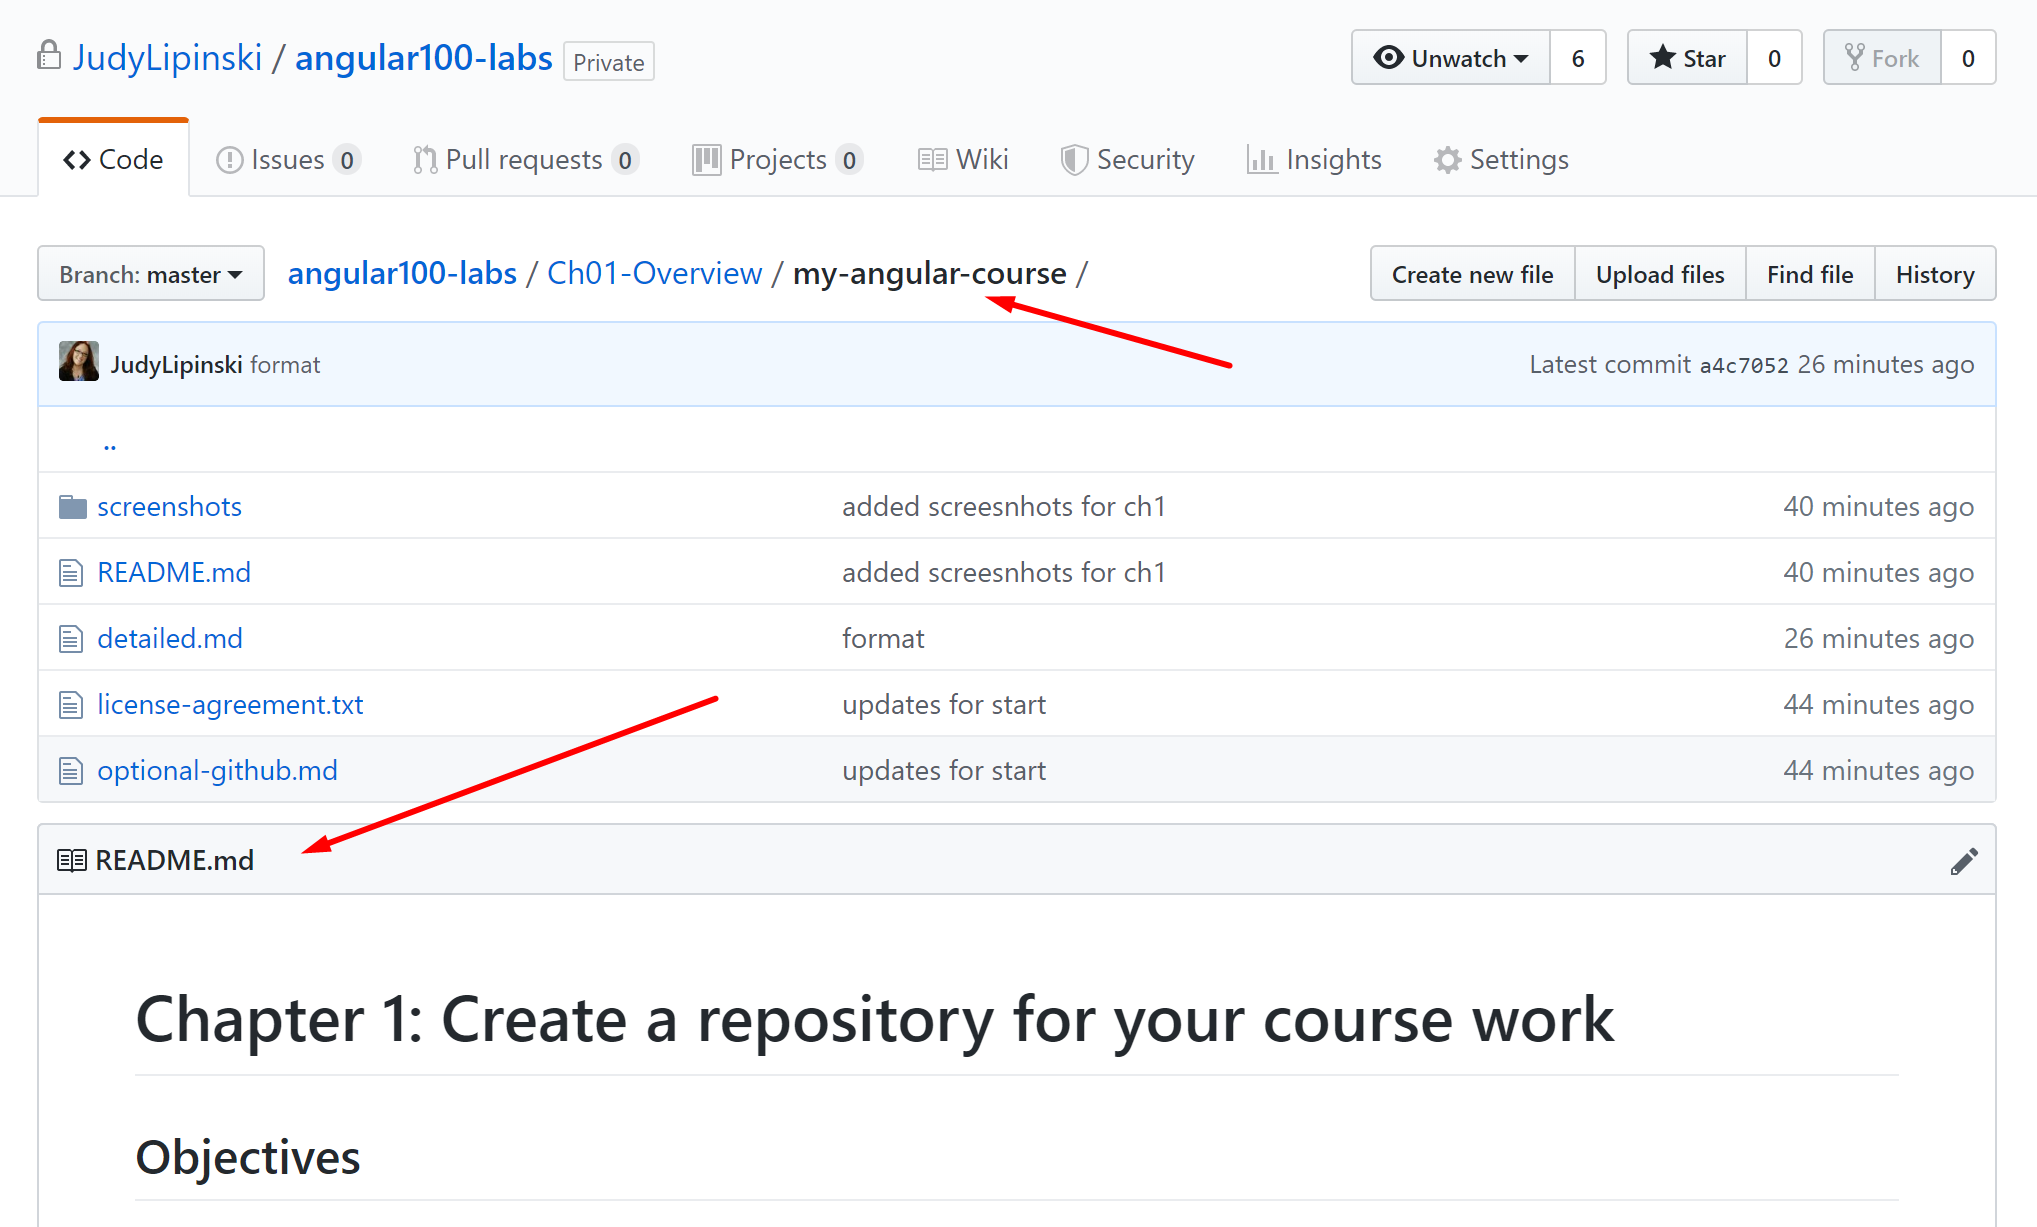
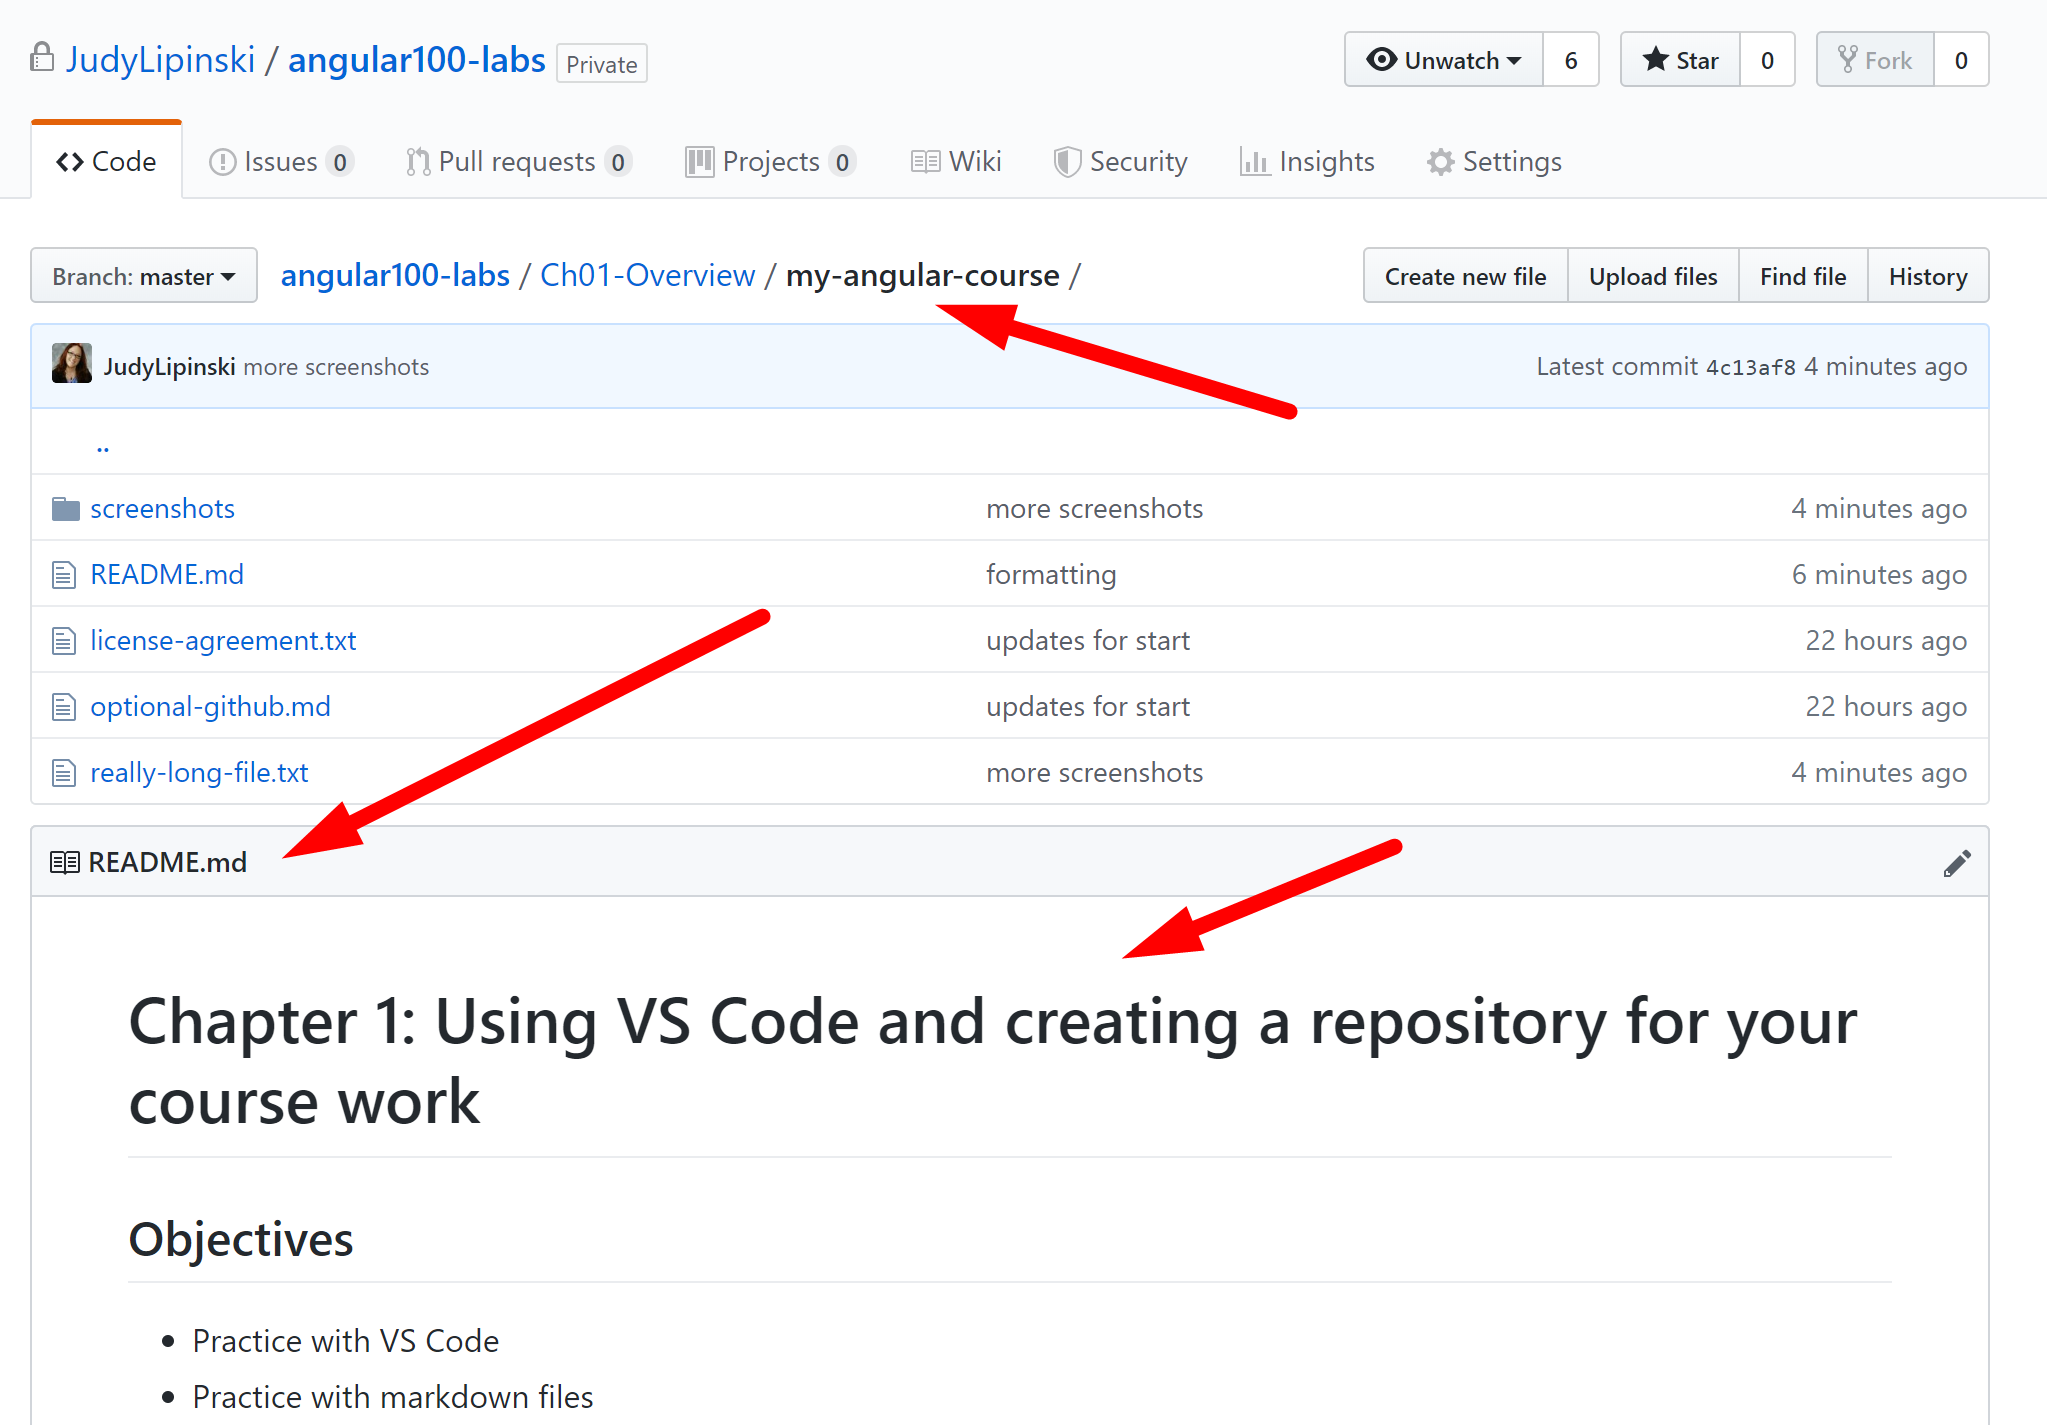
ch order more ss

diff --git a/Ch01-Overview/my-angular-course/README.md b/Ch01-Overview/my-angular-course/README.md
@@ -17,13 +17,14 @@
 
 ## Links to content below
 
-[Part 1 - Opening files in VS Code and changing default settings](#part-1---opening-files-in-vs-code-and-changing-default-settings)
+[Part 1 - Navigating the course on Github](#part-1---navigating-the-course-on-github)
 
-[Part 2 - Markdown .md files in Edit & Preview Mode](#part-2---opening-markdown-md-files-in-edit--preview-mode)
 
-[Part 3 - The Angular100-Labs project](#part-3---the-angular100-labs-project)
+[Part 2 - Opening files in VS Code and changing default settings](#part-2---opening-files-in-vs-code-and-changing-default-settings)
 
-[Part 4 - More on Install VS Code extensions](#part-4-install-vs-code-extensions)
+[Part 3 - Markdown .md files in Edit & Preview Mode](#part-3---opening-markdown-md-files-in-edit--preview-mode)
+
+[Part 4 - The Angular100-Labs project](#part-4---the-angular100-labs-project)
 
 [Part 5 - Create Your Own Local Git Repo](#part-5-create-your-own-repository-for-your-coursework)
 
@@ -33,14 +34,15 @@
 
 [Part 8 - Use .gitignore to not track changes](#part-8---using-gitignore-to-ignore-changes)
 
-[Part 9 - Optionally create GitHub remote repo](#part-9-optional--setup-github-remote-repository)
-
 [Part 10 - View GitLens extension](#part-10---view-gitlens)
+
+[Part 11 - Optionally create GitHub remote repo](#part-11-optional--setup-github-remote-repository)
+
 
 [Bonus - Explore VS Code](#bonus)
 
    
-### Part 1 - Navigating the course on Github
+### **Part 1 - Navigating the course on Github**
 
 1. Throughout the course you can use the browser to navigate to the course Git repository Angular100-Labs (specific for your class). https://github.com/JudyLipinski/angular100-labs
 
@@ -56,7 +58,43 @@
    ![Bookmark bar in chrome](screenshots/1-bookmarks-bar.png)
 
 
-### **Part 1 - Opening files in VS Code and changing default settings**
+### **Part 2 - Opening files in VS Code and changing default settings**  
+[back to top](#links-to-content-below)
+
+
+
+**Install and use VS Code Peacock extension**
+[back to top](#links-to-content-below)
+
+    The extensions pane allows you to search for, install, disable and remove extensions easily.
+
+1. Look on the left side bar menu of VS Code and click on the `Extensions` icon or use the shortcut (Ctrl + Shift + X). 
+
+    ![extensions](screenshots/extensions.png)
+
+
+2. Type into the Extensions Marketplace search field to find `Peacock` by John Papa. If you do not have it already installed click the install button.
+   
+   ![](screenshots/extensions-install-menu.png)
+
+    This extension lets us provide a color to the top and left sidebars of each instance of VS Code we open. 
+    
+    In the real world this is helpful as you may have reference implementation projects open as well as your own work.
+
+    In this course it will be helpful as we will have different VS Code instances for 
+    
+    * Angular100-labs 
+    * Angular100-solutions
+    * Angular100-demos
+    * MyAngularCourse (you will create in next Part) 
+    
+1. To use the extension, hit control+shift+p to bring up the command pallette and start typing Peacock.
+   
+   ![](screenshots/peacock-search.png)
+   
+2. You should see a list of options, choose Vue green to identify the VS Code instance for your labs.
+
+   ![](screenshots/peacock-favorites.png)
 
 
 **OPENING FILES IN VS CODE**
@@ -99,11 +137,13 @@
    
    ![wrap text](screenshots/1-wrap-contents.png)
 
-### **Part 2 - Opening Markdown .md files in Edit & Preview Mode**
+### **Part 3 - Opening Markdown .md files in Edit & Preview Mode**
+[back to top](#links-to-content-below)
+
 
     We use markdown files in this class for lab directions as they are used extensively in the industry with modern web projects.  
     
-    These plain text files end in the extension `.md` and are used to describe Angular projects.
+    These plain text files end in the extension .md and are used to describe Angular projects.
     
     Special characters are used to indicate the meaning of text and how to display it when used on websites.
     
@@ -114,7 +154,7 @@
     We will look at multiple ways to open markdown files in PREVIEW MODE in VS Code. You will use these methods for lab exercises and some demos. 
 
 
-**USING CTRL-SHIFT-V**
+**OPENING PREVIEW USING CTRL-SHIFT-V**
 
 1. If it isnt already, open this README.md in VS Code and make sure that it has focus. (click this text in the VS Code editor if the document has lost focus).
    
@@ -123,7 +163,7 @@
    ![](screenshots/2-control-shift-v.png)
    
 
-   **OPEN SPLIT SCREEN**
+   **OPENING A SPLIT SCREEN**
 
 3. Open a Split screen in order to view both at the same time by clicking on this icon 
     ![Open Split Screen](screenshots/open-split-screen.png)
@@ -155,10 +195,9 @@
     * Every item can be numbered as 1 in Edit Mode. When the markdown file is rendered: in preview mode or in browsers - the numbers will increment correctly.
         * This makes it easy to insert new items or re-order items, without needing to take the time to renumber.
 
-
     **OPEN PREVIEW TO SIDE**
 
-8. Close all tabs so only the README.md is open in Edit Mode.
+8. Close all tabs in VS Code so that only the README.md is open in Edit Mode.
    
 9.  When a markdown file is the active file, there is a button that automatically opens Preview in the split pane.
 ![Preview button](screenshots/preview-button.png)
@@ -175,7 +214,8 @@
 
 2.  For the rest of this lab exercise, view this file in Preview mode or on GitHub. 
 
-### **Part 3 - The Angular100-Labs project**
+### **Part 4 - The Angular100-Labs project**
+[back to top](#links-to-content-below)
 
 1. Make sure you have VS Code open and can see the Angular100-Labs repository. Ensure the Explorer pane is visible, listing the files/directories. Recall to click the icon if the view is hidden. 
 
@@ -184,43 +224,23 @@
 
 
 2. Understanding the Angular100-Labs repository
-    * This repository contains the markdown files which re the instructions for the labs in this course. It is organized by chapter.  
+    * This repository contains the markdown files which are the instructions for the labs in this course. It is organized by chapter.  
     * There is a z-cheatsheets folder which contains help for VS Code, HTML, CSS       
     * Practice Bonus problems are available if you complete the regular exercises before others
 
-1. If you make and save changes to any of these files, the VS Code source control icon (The Y looking icon in the vertical menu strip) will display a number for each file changed. 
+1. There is no reason to make changes to these files. If you do make and save changes to any of these files, the VS Code source control icon (The Y looking icon in the vertical menu strip) will display a number for each file changed. 
+   
+    This prevents you from pulling additional bonus materials that may be added during the course.
 
-    You can always revert to the original files by clicking this source control icon, hovering over the CHANGES menu and discarding all of the changes.
+    You can revert back to the original files by clicking this source control icon, hovering over the CHANGES menu and discarding all of the changes.
 
     ![](screenshots/discard-changes-ng.png)
 
 
-### **Part 3: Install VS Code extensions**
 
-    The extensions pane allows you to search for, install, disable and remove extensions easily.
-
-1. Look on the left side bar menu of VS Code and click on the `Extensions` icon or use the shortcut (Ctrl + Shift + X). 
-
-    ![extensions](screenshots/extensions.png)
-
-
-2. Type into the Extensions Marketplace search field to find `Peacock` by John Papa. If you do not have it already installed click the install button.
-   
-   ![](screenshots/extensions-install-menu.png)
-
-    This extension lets us provide a color to the top and left sidebars of each instance of VS Code we open. 
-    
-    In the real world this is helpful as you may have reference implementation projects open as well as your own work.
-
-    In this course it will be helpful as we will have different VS Code instances for 
-    
-    * Angular100-labs repo
-    * Angular100-solutions
-    * Angular100-demos
-    * MyAngularCourse (you will create in next Part) 
-    
 
 ### **Part 5: Create your own repository for your coursework**
+[back to top](#links-to-content-below)
 
 You will create a repository called my-angular-albums. It will be tracked by Git so that if you accidentally delete or change files you can recover them easily. 
 
@@ -249,6 +269,7 @@ Sometimes, you may accidentally run a command and modify a lot of files you did 
 ![GitInit](screenshots/git-init.png)
 
 ### **Part 6 - Opening Multiple Instances of VS Code**
+[back to top](#links-to-content-below)
 
     Quite often you will need to have multiple instances of VS Code open. For example, you may be referring to a sample project and comparing to your own project. In this class, you may wish to have open the Labs and your project.
 
@@ -272,6 +293,7 @@ Sometimes, you may accidentally run a command and modify a lot of files you did 
    Here you can see more than one instance open. You can use the windows status bar to switch between projects by clicking the icon and choosing the one you want. If you are not using a virtual machine you can use Alt+tab to switch.
 
 ### **Part 7 - Using VS Code to Commit Changes**
+[back to top](#links-to-content-below)
 
     By copying a file into your project, you might have noticed the source control icon now has a number on it. Here we will practice with change tracking in projects.
    
@@ -292,6 +314,7 @@ Sometimes, you may accidentally run a command and modify a lot of files you did 
 7.  Click the check mark above the text message field to commit the changes made to README.md
 
 ### **Part 8 - Using .gitignore to ignore Changes**
+[back to top](#links-to-content-below)
 
     Sometimes, you do not want Git to track certain files or directories. Git looks for a settings file called `.gitignore`. Any files or directories included in this file will not be tracked.
     
@@ -310,22 +333,27 @@ Sometimes, you may accidentally run a command and modify a lot of files you did 
 
 1.  Please mark your work as complete. With your name tent card if in a classroom or by using method for online training. (spreadsheet, status symbol, etc.) Then you can move on to the OPTIONAL part or Bonus below.
 
-### **Part 9 OPTIONAL- Setup GitHub remote repository**
-
-1. If you have access to GitHub you can follow the directions in this folder's file [optional-github.md](./optional-github.md)  file. If others are done with this exercise already you can return to do this on a break or at a later time. It can be completed at any time before the end of class. 
 
 ### **Part 10 - View GitLens** 
+[back to top](#links-to-content-below)
+
 1.  On VS Code's left hand toolbar, click on the `GitLens` extension you installed earlier. This extension contains additional features.
 
     ![](screenshots/gitlens.png)
 
 1.  Familiarize yourself with `GitLens'` panel. Notice how you can use it to access different repositories and their branches, remote, your stashes, etc. Also notice how you can navigate through it to see history of a file, a line, or compare files between different branches or between local and remote.
 
+### **Part 11 OPTIONAL- Setup GitHub remote repository**
+[back to top](#links-to-content-below)
+
+1. If you have access to GitHub you can follow the directions in this folder's file [optional-github.md](./optional-github.md)  file. If others are done with this exercise already you can return to do this on a break or at a later time. It can be completed at any time before the end of class. 
 
 
 
 ## Bonus
+[back to top](#links-to-content-below)
 
-1. If done before others, check out the VS Code Interactive Playground
-2. 
-You will be using this directory inthe next chapter to create an Angular project from scratch. If you wish to continue, the steps that follow will help you to setup a GitHub repository and link it to this local directory. You will need a valid GitHub account that you can login to. So if you have a phone, or other way to check your email you can set this up. Some students have created temporary emails using Google, Yahoo, etc and have used this to setup GitHub. You can always change the email on your account later when you have access to your email.
+1. If done before others, explore the VS Code Interactive Playground
+   
+![](screenshots/interactive-playground.png)
+

diff --git a/Ch01-Overview/my-angular-course/optional-github.md b/Ch01-Overview/my-angular-course/optional-github.md
@@ -4,19 +4,27 @@ These instructions will help you to setup a remote repository in GitHub that you
 
 1. Navigate to https://GitHub.com/ and sign into an existing account of yours or sign up for a new account.
 
-2. After logging into GitHub, create a new GitHub repository called `MyWebCourse` by clicking Repositories in the menu and the green new button.
+2. After logging into GitHub, open your lst of repositories if it is not currently shown using the drop down in the right top corner.
+   ![New Repo](screenshots/repos-menu.png)
+   
+3. Open a dialog by the green new button. 
 
     ![New Repo](screenshots/repositories-new.png)
 
 
-3. In the menu that appears, choose private and skip the steps to initialize with a readme.
+4. In the menu that appears: 
+* name your new GitHub repository `MyAngularCourse`
+* choose private 
+*  Leave the checkbox for **Initialize this repository with a README** unchecked
     ![New Repo Wizard](screenshots/new-repo-wizard.png)
 
-    Leave the checkbox for `Initialize this repository with a README` unchecked and click the green button to `Create Repository`
+    and click the green button to `Create Repository`
 
-4. You will be given instructions for the remote repo. You only need the last two lines. Yours will be slightly different than what is shown because it will be for your repo. Copy these lines and paste them into the command prompt in your MyWebCourse directory.
+1. GitHub will generate instructions for the remote repo. You only need the last two lines. Yours will be slightly different than what is shown because it will be for your repo. Highlight and copy the last two lines shown to you. 
 ![](screenshots/git-add-origin.png)
 
+
+1.  and paste them into the command prompt in your my-angular-course directory.
 ![](screenshots/git-add-remote.png)
 
 ### **Part 2 PUSHING CHANGES TO GITHUB**
